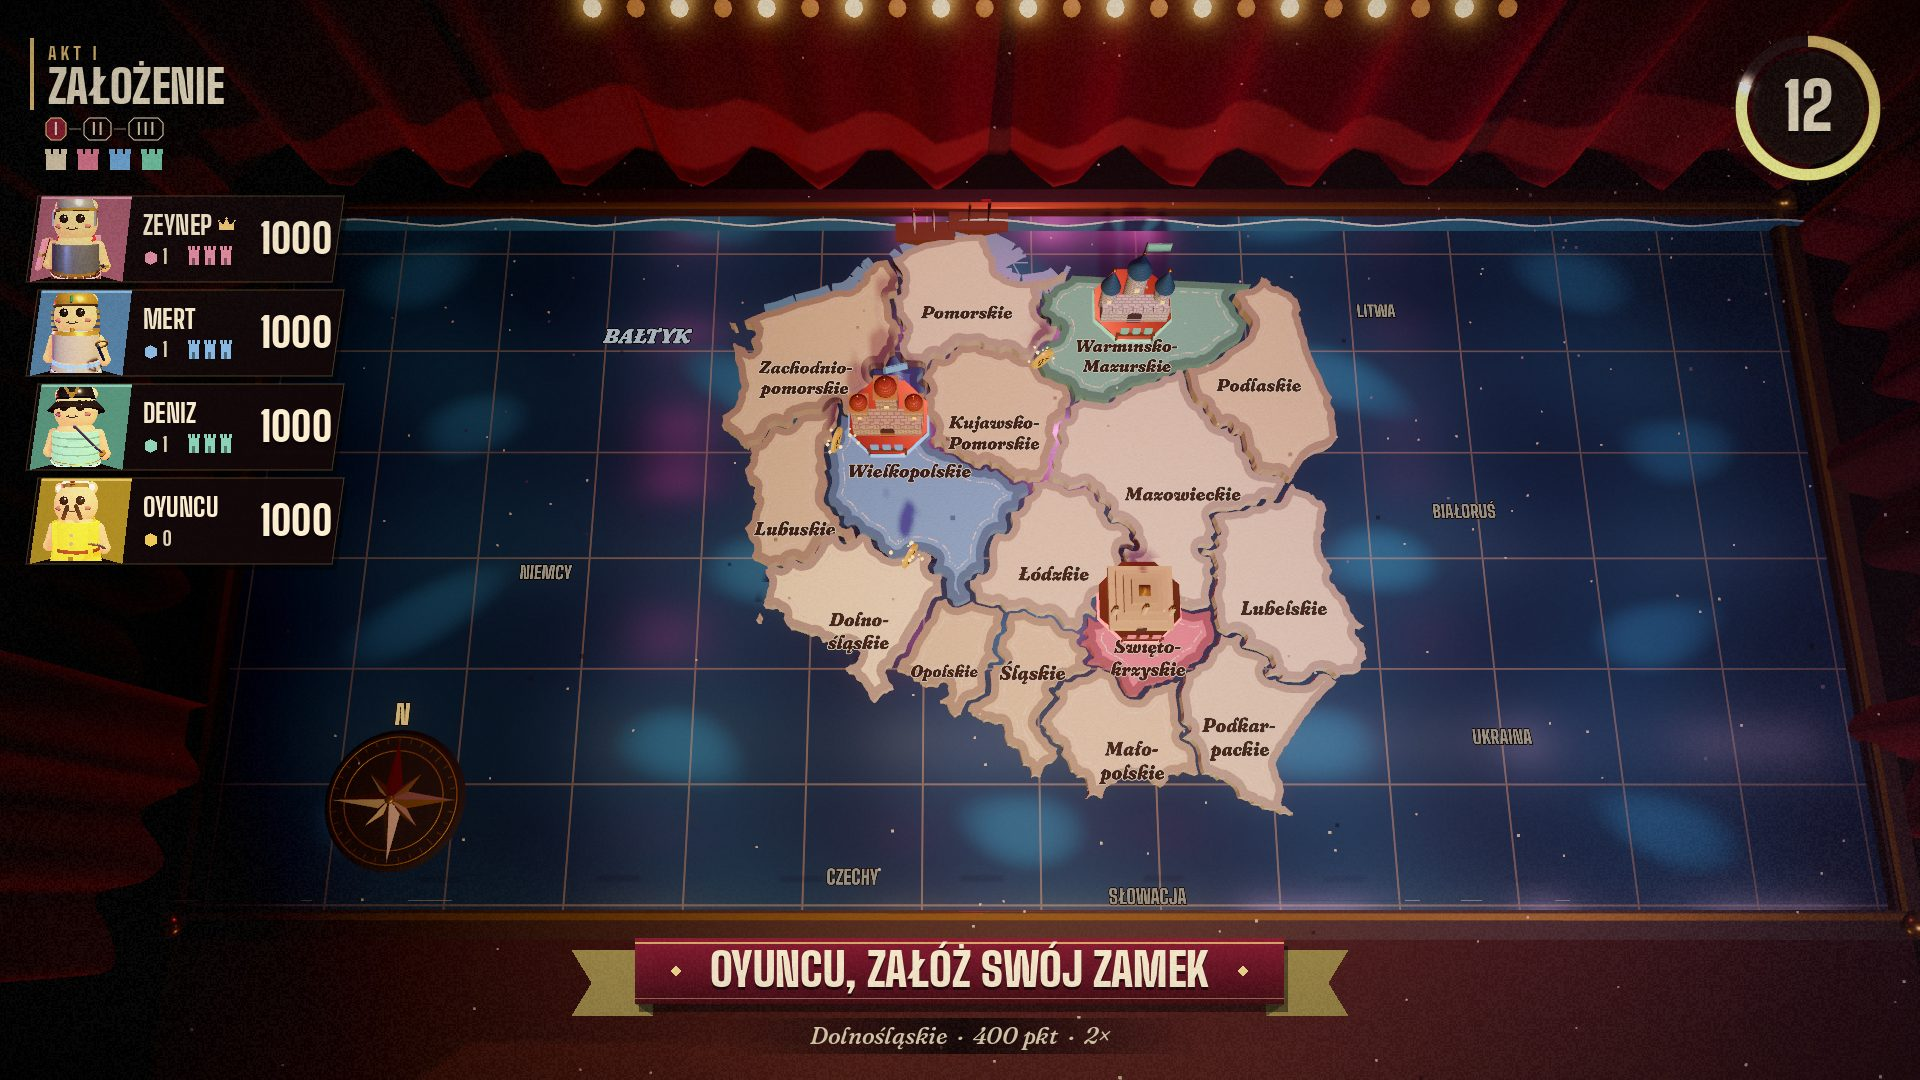
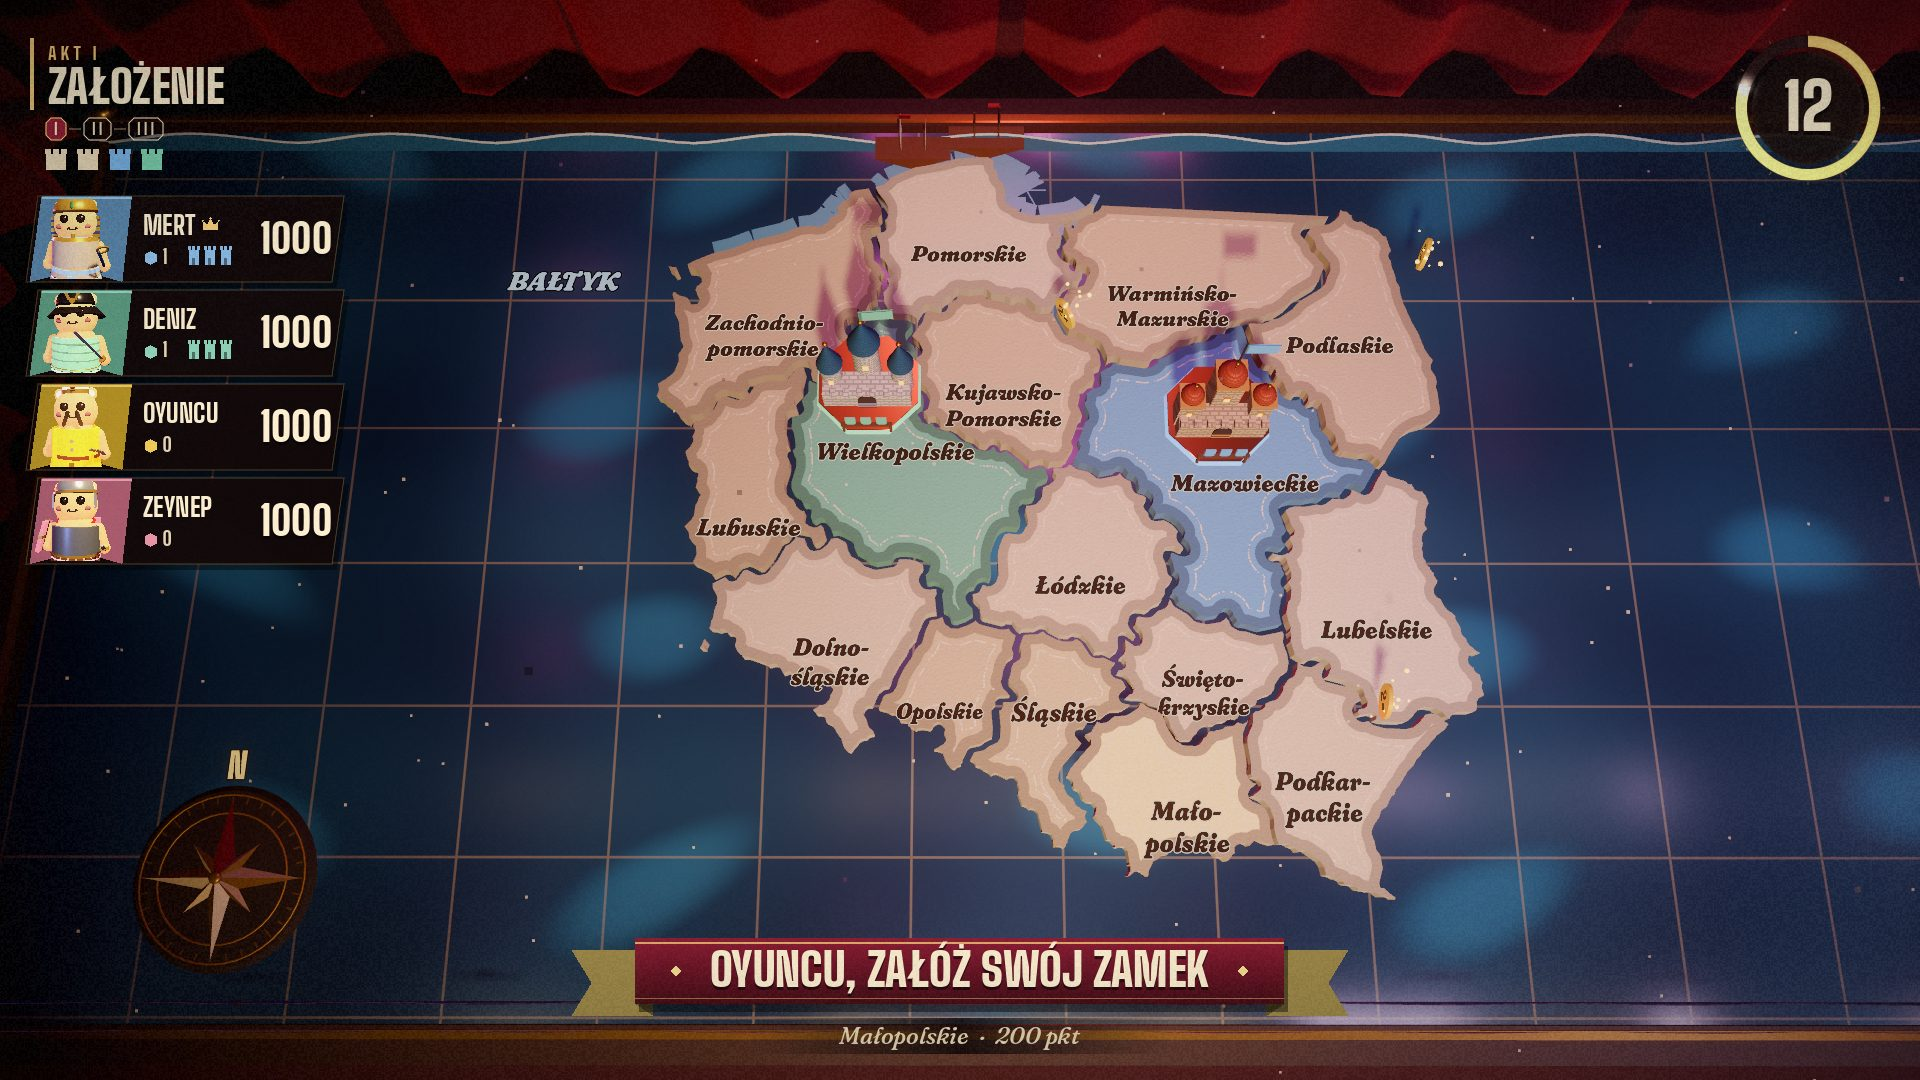
Polonya haritası yakın kamera, komşu adları kaldırıldı; Karakterim ışınlaması sağlamlaştırıldı
- MapBoard.view_zoom / zoom_shot: dar haritada seçim ve genel bakış kamerası
  yaklaşır (Polonya 1,28), harita ekranı doldurur.
- Polonya: komşu ülke yazıları silindi (yalnız Bałtyk).
- Karakterim: pelüş podyuma doğrudan fizik sunucusuna yazılarak konur ve
  oda açık kaldıkça her fizik adımında yerinde tutulur.
- wardrobe_far ekran görüntüsü: kenarda koşan oyuncuyla Karakterim'i açar.

Claude-Session: https://claude.ai/code/session_01Y8aKUDWh4HBY3NVrYJ7tJA

diff --git a/game/tools/maps/build_poland.py b/game/tools/maps/build_poland.py
@@ -161,12 +161,11 @@ def main():
             "ships": [[160.0, 40.0, 1.0], [600.0, 25.0, -1.0]], "ship_roam": 1.4,
             # komşu ülkeler yalnız silik yazı olarak (keçe kara parçası kaldırıldı: tuhaf duruyordu)
             # [yazı, x, y, deniz mi]
-            "decor": [["BAŁTYK", -70.0, 200.0, True], ["NIEMCY", -190.0, 560.0, False],
-                      ["CZECHY", 250.0, 975.0, False], ["SŁOWACJA", 640.0, 1000.0, False],
-                      ["UKRAINA", 1130.0, 790.0, False], ["BIAŁORUŚ", 1110.0, 470.0, False],
-                      ["LITWA", 1010.0, 160.0, False], ["ROSJA", 690.0, 175.0, False]],
+            "decor": [["BAŁTYK", -70.0, 200.0, True]],
             # küçük bölgeler: kale kuzey yarıda, ad güney yarıda; ad bölge genişliğine sığdırılır
             "label_scale": 0.9, "split_seat": True,
+            # harita dar: seçim ve genel bakış kamerası bu oranda yaklaşır (yanlarda boş masa kalmasın)
+            "view_zoom": 1.28,
             "credit": "Map: Simplemaps.com (free for commercial use)", "regions": regions}
     os.makedirs(os.path.dirname(OUT), exist_ok=True)
     json.dump(data, open(OUT, "w", encoding="utf-8"), ensure_ascii=False, separators=(",", ":"))

diff --git a/docs/DESIGN.md b/docs/DESIGN.md
@@ -149,7 +149,7 @@ Henüz yok (GDD'nin sonraki fazları): çevrimiçi analitik ve soru metrikleri, 
 Banka yaklaşık 2000 soru ve 98 tahmin sorusundan oluşur. 15 kategori var, bunların arasında Uzay, Tuhaf ama Gerçek ve Diller ve Kelimeler yeni. Sorular evrenseldir, İspanyol ve Polonyalı oyuncular için de yerel dokunuşlar içerir.
 
 ### Haritalar
-Conquest iki haritada oynanır; kurulum ekranında seçilir. **Türkiye:** 16 bölge, gerçek il sınırları, çevresi saten deniz. **Polonya:** 16 voyvodalık, resmî Lehçe adlarıyla (Mazowieckie, Wielkopolskie…). Kuzeyi Baltık; komşu ülkeler (Niemcy, Czechy, Słowacja, Ukraina, Białoruś, Litwa, Rosja) denizin üstünde silik yazı olarak durur. Komşuluklar sınırlardan hesaplanır ve gerçekle birebir aynıdır (34 sınır). Mesajlarda voyvodalık oyuncunun dilindeki adıyla geçer (TR "Mazovya", EN "Masovia", PL "Mazowieckie"). Kaleler ve taşlar haritanın ölçeğine göre küçülür. Bölge adları bölgeye sığdırılır: ad kalenin altında, bölgenin en geniş yatay şeridinde tam boy yazılır; dar bölgede iki satıra bölünür (Święto-/krzyskie, Batı/Akdeniz), hiçbir yerde sığmıyorsa küçülür. Çok küçük ya da uzun bölgelerde (Opolskie, Śląskie, Güney Marmara, Doğu Karadeniz…) kale ve ad yeri veride elle verilir (`seat`, `label_at`). Açılışta bölgeler sırayla yukarıdan düşer; ele geçirilen bölgede renkli kıvılcım ve yayılan halka, taş konunca toz bulutu çıkar. Harita verisi: Simplemaps.com (ticari kullanım serbest).
+Conquest iki haritada oynanır; kurulum ekranında seçilir. **Türkiye:** 16 bölge, gerçek il sınırları, çevresi saten deniz. **Polonya:** 16 voyvodalık, resmî Lehçe adlarıyla (Mazowieckie, Wielkopolskie…). Kuzeyi Baltık; komşu ülkeler gösterilmez. Harita dar olduğu için seçim ve genel bakış kamerası 1,28 kat yaklaşır (`view_zoom`), yanlarda boş masa kalmaz. Komşuluklar sınırlardan hesaplanır ve gerçekle birebir aynıdır (34 sınır). Mesajlarda voyvodalık oyuncunun dilindeki adıyla geçer (TR "Mazovya", EN "Masovia", PL "Mazowieckie"). Kaleler ve taşlar haritanın ölçeğine göre küçülür. Bölge adları bölgeye sığdırılır: ad kalenin altında, bölgenin en geniş yatay şeridinde tam boy yazılır; dar bölgede iki satıra bölünür (Święto-/krzyskie, Batı/Akdeniz), hiçbir yerde sığmıyorsa küçülür. Çok küçük ya da uzun bölgelerde (Opolskie, Śląskie, Güney Marmara, Doğu Karadeniz…) kale ve ad yeri veride elle verilir (`seat`, `label_at`). Açılışta bölgeler sırayla yukarıdan düşer; ele geçirilen bölgede renkli kıvılcım ve yayılan halka, taş konunca toz bulutu çıkar. Harita verisi: Simplemaps.com (ticari kullanım serbest).
 
 ![Polonya haritası](screenshots/map_poland.jpg)
 
